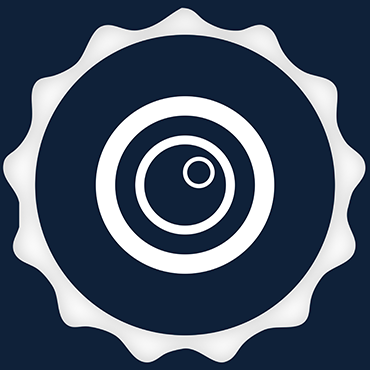
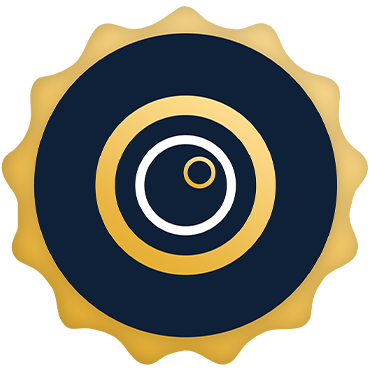
connexion a l app

diff --git a/src/components/FinalCTA.jsx b/src/components/FinalCTA.jsx
@@ -1,3 +1,5 @@
+import { APP_URL } from "../data/landingContent";
+
 export default function FinalCTA() {
   return (
     <section className="final-cta-section" id="login">
@@ -9,8 +11,8 @@ export default function FinalCTA() {
         </div>
 
         <div className="final-cta-actions">
-          <a href="#showcase" className="button button--primary">
-            Open showcase
+          <a href={APP_URL} className="button button--primary">
+            Start creating
           </a>
           <a href="#top" className="button button--ghost">
             Back to top

diff --git a/src/components/PremiumNavbar.jsx b/src/components/PremiumNavbar.jsx
@@ -1,3 +1,5 @@
+import { APP_URL } from "../data/landingContent";
+
 const AUTOBROLL_LOGO_URL =
   'https://pub-29017a168d3a4edc87594d9ff9c1f185.r2.dev/logo/AutoBroll%206%201500x1500.png';
 
@@ -37,7 +39,7 @@ export default function PremiumNavbar({ links, activeHref = '#showcase' }) {
         </nav>
 
         <div className="navbar-shell__right">
-          <a href="#top" className="button button--primary button--nav">
+          <a href={APP_URL} className="button button--primary button--nav">
             Log In
           </a>
         </div>

diff --git a/src/data/landingContent.js b/src/data/landingContent.js
@@ -1,3 +1,5 @@
+export const APP_URL = "https://app.autobroll.io";
+
 export const navLinks = [
   { label: "Showcase", href: "#showcase" },
   { label: "How it works", href: "#how-it-works" },